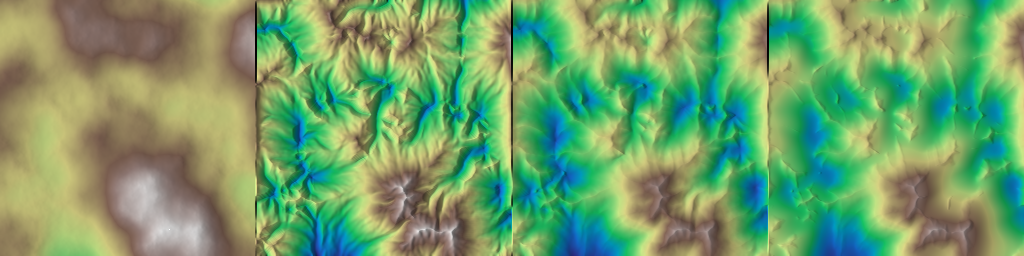
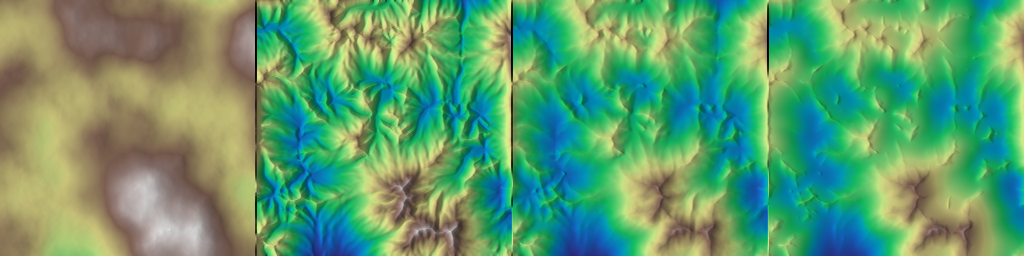
Add large-scale hydraulic 'ridge' erosion factor missing parameter

diff --git a/include/highmap/erosion.hpp b/include/highmap/erosion.hpp
@@ -261,6 +261,8 @@ void hydraulic_particle_multiscale(Array             &z,
  * @param z Input array.
  * @param talus Ridge talus.
  * @param intensity Erosion intensity in [0, 1].
+ * @param erosion_factor Erosion factor, generally in ]0, 10]. Smaller values
+ * tend to flatten the map.
  * @param smoothing_factor Smooothing factor in ]0, 1] (1 for no smoothing).
  * @param noise_ratio Ridge talus noise ratio in [0, 1].
  * @param seed Random seed number (only useful when `noise_ratio != 0`).
@@ -274,6 +276,7 @@ void hydraulic_particle_multiscale(Array             &z,
 void hydraulic_ridge(Array &z,
                      float  talus,
                      float  intensity = 0.5f,
+                     float  erosion_factor = 1.5f,
                      float  smoothing_factor = 0.f,
                      float  noise_ratio = 0.f,
                      uint   seed = 1);

diff --git a/src/erosion/hydraulic_ridge.cpp b/src/erosion/hydraulic_ridge.cpp
@@ -13,15 +13,15 @@ namespace hmap
 void hydraulic_ridge(Array &z,
                      float  talus,
                      float  intensity,
+                     float  erosion_factor,
                      float  smoothing_factor,
                      float  noise_ratio,
                      uint   seed)
 {
   // erosion depth
-  float ze_max = 2.5f;
   Array ze = flow_accumulation_dinf(z, talus);
   ze = log10(ze);
-  minimum_smooth(ze, ze_max, ze_max);
+  minimum_smooth(ze, erosion_factor, erosion_factor);
   remap(ze);
 
   float landing_width_ratio = 0.1f;
@@ -31,7 +31,7 @@ void hydraulic_ridge(Array &z,
                 seed,
                 noise_ratio,
                 0.f, // ze_min
-                2.f * ze_max,
+                2.f * erosion_factor,
                 smoothing_factor,
                 landing_width_ratio,
                 false);

diff --git a/examples/ex_hydraulic_ridge/ex_hydraulic_ridge.cpp b/examples/ex_hydraulic_ridge/ex_hydraulic_ridge.cpp
@@ -14,16 +14,17 @@ int main(void)
 
   float talus = 16.f / shape[0];
   float intensity = 0.5f;
+  float erosion_factor = 1.5f;
 
   // no smoothing
   auto  z1 = z;
   float smoothing_factor = 1.f;
-  hmap::hydraulic_ridge(z1, talus, intensity, smoothing_factor);
+  hmap::hydraulic_ridge(z1, talus, intensity, erosion_factor, smoothing_factor);
 
   // lots of smoothing
   auto z2 = z;
   smoothing_factor = 0.05f;
-  hmap::hydraulic_ridge(z2, talus, intensity, smoothing_factor);
+  hmap::hydraulic_ridge(z2, talus, intensity, erosion_factor, smoothing_factor);
 
   // can be combined with thermal erosion to yield smoother valley
   // bottoms
